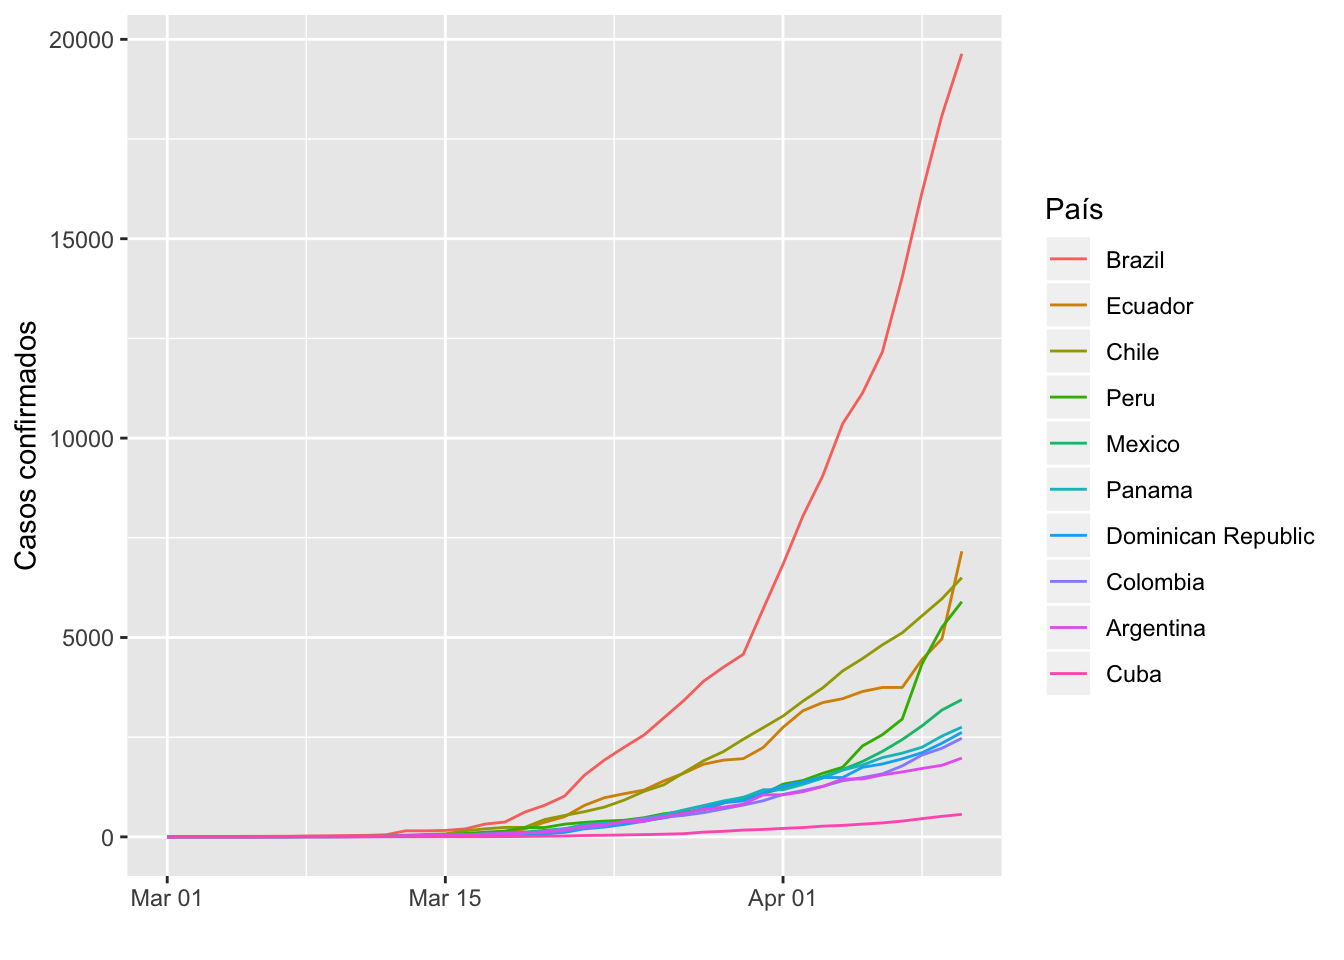
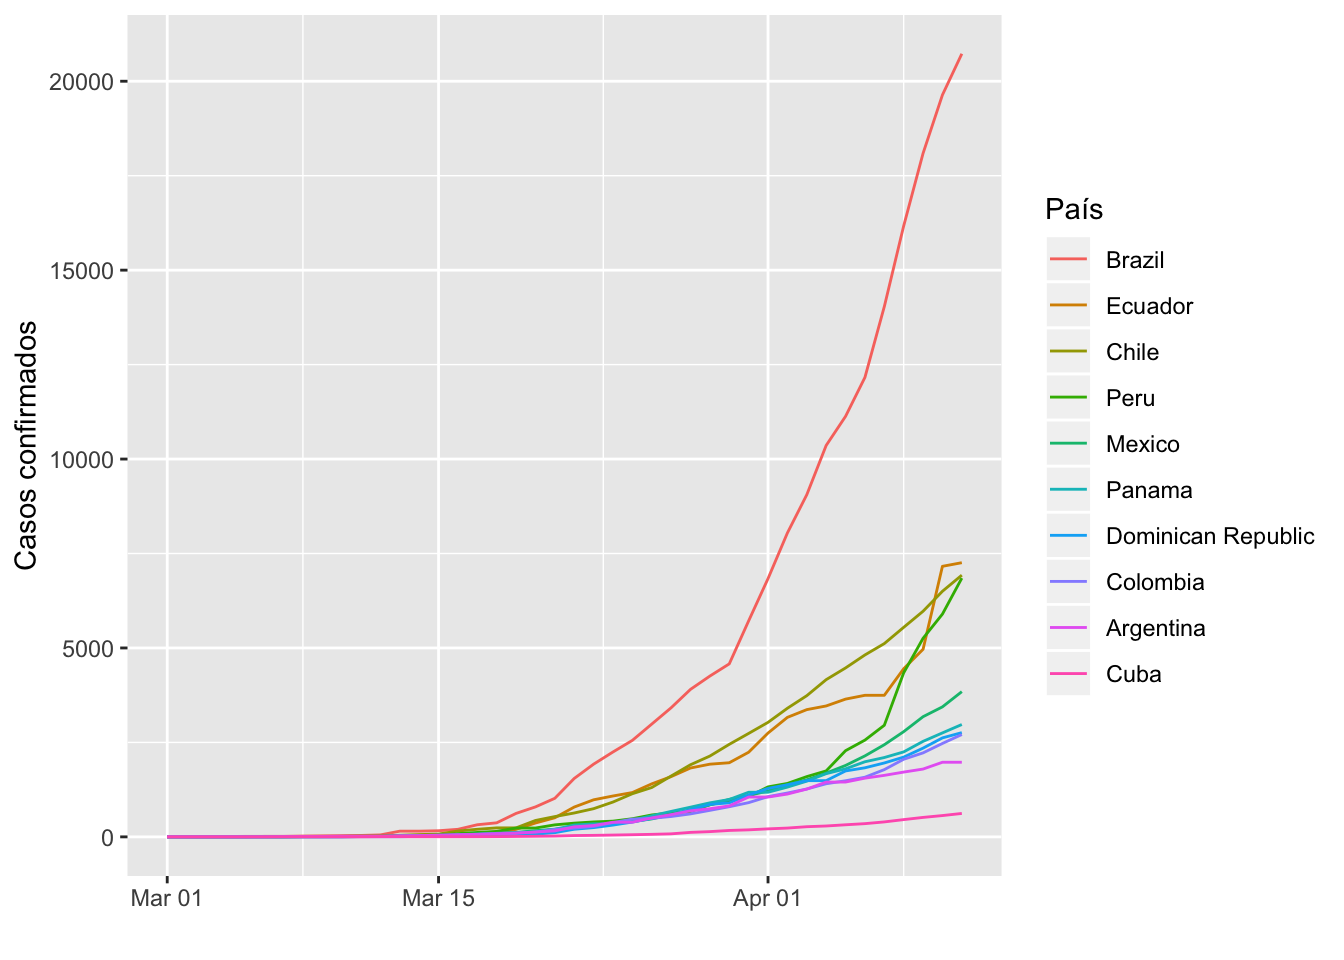
update

diff --git a/content/post/salud/2020-04-01-resumen-estadistico-sobre-el-coronavirus-en-ecuador-y-america-latina-marzo.html b/content/post/salud/2020-04-01-resumen-estadistico-sobre-el-coronavirus-en-ecuador-y-america-latina-marzo.html
@@ -25,20 +25,20 @@ images:
 <script src="/rmarkdown-libs/crosstalk/js/crosstalk.min.js"></script>
 
 
-<p>El 29 de febrero de 2020, el Ecuador se convirtió en el tercer país en América Latina en confirmar su primer caso de Covid-19. Brasil y México fueron los primeros. En tan solo un mes, el virus logró propagarese en todos los países de la región y hasta ayer, 2020-04-10, se contabilizaron 55284 casos confirmados, 2230 fallecidos y 5442 recuperados.</p>
+<p>El 29 de febrero de 2020, el Ecuador se convirtió en el tercer país en América Latina en confirmar su primer caso de Covid-19. Brasil y México fueron los primeros. En tan solo un mes, el virus logró propagarese en todos los países de la región y hasta ayer, 2020-04-11, se contabilizaron 58982 casos confirmados, 2415 fallecidos y 6097 recuperados.</p>
 <p><strong>NOTA:</strong> Todas las estadísticas están actualizadas al <strong>sábado, 11 de abril de 2020</strong>. Los datos se actualizan automáticamente todos los día en la mañana con los datos del día anterior.</p>
 <p><strong>Tabla 1. Número de casos confirmados, fallecidos, y recuperados por país</strong></p>
 <div id="htmlwidget-1" style="width:100%;height:auto;" class="datatables html-widget"></div>
-<script type="application/json" data-for="htmlwidget-1">{"x":{"filter":"none","data":[["1","2","3","4","5","6","7","8","9","10","11","12","13","14","15","16","17","18","19","20"],["Brazil","Ecuador","Chile","Peru","Mexico","Panama","Dominican Republic","Colombia","Argentina","Cuba","Costa Rica","Uruguay","Honduras","Bolivia","Venezuela","Paraguay","Guatemala","El Salvador","Haiti","Nicaragua"],[19638,7161,6501,5897,3441,2752,2620,2473,1975,564,558,473,382,268,171,129,126,117,31,7],[1057,297,65,169,194,66,126,80,82,15,3,7,23,19,9,6,3,6,2,1],[173,368,1571,1569,633,16,98,197,375,51,42,206,7,2,84,18,17,15,0,0]],"container":"<table class=\"display\">\n  <thead>\n    <tr>\n      <th> <\/th>\n      <th>País<\/th>\n      <th>Casos confirmados<\/th>\n      <th>Fallecidos<\/th>\n      <th>Recuperados<\/th>\n    <\/tr>\n  <\/thead>\n<\/table>","options":{"pageLength":5,"lengthMenu":[5,10,15,20],"columnDefs":[{"className":"dt-right","targets":[2,3,4]},{"orderable":false,"targets":0}],"order":[],"autoWidth":false,"orderClasses":false}},"evals":[],"jsHooks":[]}</script>
+<script type="application/json" data-for="htmlwidget-1">{"x":{"filter":"none","data":[["1","2","3","4","5","6","7","8","9","10","11","12","13","14","15","16","17","18","19","20"],["Brazil","Ecuador","Chile","Peru","Mexico","Panama","Dominican Republic","Colombia","Argentina","Cuba","Costa Rica","Uruguay","Honduras","Bolivia","Venezuela","Guatemala","Paraguay","El Salvador","Haiti","Nicaragua"],[20727,7257,6927,6848,3844,2974,2759,2709,1975,620,577,494,392,275,175,137,133,118,33,8],[1124,315,73,181,233,74,135,100,83,16,3,7,24,20,9,3,6,6,2,1],[173,411,1864,1739,633,17,108,214,440,77,49,214,7,2,93,19,18,19,0,0]],"container":"<table class=\"display\">\n  <thead>\n    <tr>\n      <th> <\/th>\n      <th>País<\/th>\n      <th>Casos confirmados<\/th>\n      <th>Fallecidos<\/th>\n      <th>Recuperados<\/th>\n    <\/tr>\n  <\/thead>\n<\/table>","options":{"pageLength":5,"lengthMenu":[5,10,15,20],"columnDefs":[{"className":"dt-right","targets":[2,3,4]},{"orderable":false,"targets":0}],"order":[],"autoWidth":false,"orderClasses":false}},"evals":[],"jsHooks":[]}</script>
 <p>A pesar de las medidas que impuso el gobierno ecuatoriano a inicios de marzo, es difícil afirmar que estas has sido los suficientemente efectivas para desacelerar el crecimiento de casos confirmados y muertes por Covid-19. Otros países también han tomado medidas, pero aún así el virus ha logrado esparcirse en toda la región. Aquí te mostramos dos mapas.</p>
 <p><strong>Mapa 1. Evolución de número de casos confirmados en América Latina</strong> <img src="/post/salud/2020-04-01-resumen-estadistico-sobre-el-coronavirus-en-ecuador-y-america-latina-marzo_files/figure-html/unnamed-chunk-5.gif" width="672" /> Fuente: Center for Systems Science and Engineering (CSSE) de Johns Hopkins University</p>
 <p><strong>Mapa 2. Evolución de número de fallecidos en América Latina</strong> <img src="/post/salud/2020-04-01-resumen-estadistico-sobre-el-coronavirus-en-ecuador-y-america-latina-marzo_files/figure-html/unnamed-chunk-6.gif" width="672" /> Fuente: Center for Systems Science and Engineering (CSSE) de Johns Hopkins University</p>
 <p>El 14 de marzo, el vicepresidente Otto Sonnenholzner anunció el cierre de fronteras a partir del lunes 16 de marzo a las 13:59. Otros países también han tomado medidas similares. A mediados de marzo, Perú también cerró sus fronteras. Colombia lo hizo 23 de marzo. Sin embargo, a finales de marzo Brazil ya alcanza casi seis mil casos confirmados, Chile los tres mil y Ecuador ya supera los dos mil.</p>
 <p><strong>Gráfico 1. Evolución del número de casos confirmados por país en América Latina</strong></p>
 <p><img src="/post/salud/2020-04-01-resumen-estadistico-sobre-el-coronavirus-en-ecuador-y-america-latina-marzo_files/figure-html/unnamed-chunk-7-1.png" width="672" /> Fuente: Center for Systems Science and Engineering (CSSE) de Johns Hopkins University</p>
-<p>Panamá, Chile y Ecuador son los países con mayor número de casos confirmados por cada millón de habitantes. Así mismo, Panamá y República Dominicana y Ecuador cuentan con el mayor número de fallecidos por cada millón de habitantes. En Ecuador, por cada millón de habitantes, existen 347.1 casos confirmados y 3.5 fallecidos. Te ofrecemos más detalle en la siguiente tabla.</p>
+<p>Panamá, Chile y Ecuador son los países con mayor número de casos confirmados por cada millón de habitantes. Así mismo, Panamá y República Dominicana y Ecuador cuentan con el mayor número de fallecidos por cada millón de habitantes. En Ecuador, por cada millón de habitantes, existen 369.9 casos confirmados y 3.9 fallecidos. Te ofrecemos más detalle en la siguiente tabla.</p>
 <p><strong>Tabla 2. Número de casos confirmados y fallecidos por cada millón de habitantes</strong> <div id="htmlwidget-2" style="width:100%;height:auto;" class="datatables html-widget"></div>
-<script type="application/json" data-for="htmlwidget-2">{"x":{"filter":"none","data":[["1","2","3","4","5","6","7","8","9","10","11","12","13","14","15","16","17","18","19","20"],["Brazil","Ecuador","Chile","Peru","Mexico","Panama","Dominican Republic","Colombia","Argentina","Cuba","Costa Rica","Uruguay","Honduras","Bolivia","Venezuela","Paraguay","Guatemala","El Salvador","Haiti","Nicaragua"],[19638,7161,6501,5897,3441,2752,2620,2473,1975,564,558,473,382,268,171,129,126,117,31,7],[1057,297,65,169,194,66,126,80,82,15,3,7,23,19,9,6,3,6,2,1],[93.8,419.2,347.1,184.3,27.3,658.9,246.5,49.8,44.4,49.7,111.6,137.1,39.8,23.6,5.9,18.5,7.3,18.2,2.8,1.1],[5,17.4,3.5,5.3,1.5,15.8,11.9,1.6,1.8,1.3,0.6,2,2.4,1.7,0.3,0.9,0.2,0.9,0.2,0.2]],"container":"<table class=\"display\">\n  <thead>\n    <tr>\n      <th> <\/th>\n      <th>País<\/th>\n      <th>Casos confirmados<\/th>\n      <th>Fallecidos<\/th>\n      <th>Casos por cada millón<\/th>\n      <th>Fallecidos por cada millón<\/th>\n    <\/tr>\n  <\/thead>\n<\/table>","options":{"pageLength":5,"lengthMenu":[5,10,15,20],"columnDefs":[{"className":"dt-right","targets":[2,3,4,5]},{"orderable":false,"targets":0}],"order":[],"autoWidth":false,"orderClasses":false}},"evals":[],"jsHooks":[]}</script> Fuente: Center for Systems Science and Engineering (CSSE) de Johns Hopkins University (datos del Covid-19) y Banco Mundial (datos poblacionales proyectados al 2018)</p>
+<script type="application/json" data-for="htmlwidget-2">{"x":{"filter":"none","data":[["1","2","3","4","5","6","7","8","9","10","11","12","13","14","15","16","17","18","19","20"],["Brazil","Ecuador","Chile","Peru","Mexico","Panama","Dominican Republic","Colombia","Argentina","Cuba","Costa Rica","Uruguay","Honduras","Bolivia","Venezuela","Guatemala","Paraguay","El Salvador","Haiti","Nicaragua"],[20727,7257,6927,6848,3844,2974,2759,2709,1975,620,577,494,392,275,175,137,133,118,33,8],[1124,315,73,181,233,74,135,100,83,16,3,7,24,20,9,3,6,6,2,1],[99,424.8,369.9,214.1,30.5,712,259.6,54.6,44.4,54.7,115.4,143.2,40.9,24.2,6.1,7.9,19.1,18.4,3,1.2],[5.4,18.4,3.9,5.7,1.8,17.7,12.7,2,1.9,1.4,0.6,2,2.5,1.8,0.3,0.2,0.9,0.9,0.2,0.2]],"container":"<table class=\"display\">\n  <thead>\n    <tr>\n      <th> <\/th>\n      <th>País<\/th>\n      <th>Casos confirmados<\/th>\n      <th>Fallecidos<\/th>\n      <th>Casos por cada millón<\/th>\n      <th>Fallecidos por cada millón<\/th>\n    <\/tr>\n  <\/thead>\n<\/table>","options":{"pageLength":5,"lengthMenu":[5,10,15,20],"columnDefs":[{"className":"dt-right","targets":[2,3,4,5]},{"orderable":false,"targets":0}],"order":[],"autoWidth":false,"orderClasses":false}},"evals":[],"jsHooks":[]}</script> Fuente: Center for Systems Science and Engineering (CSSE) de Johns Hopkins University (datos del Covid-19) y Banco Mundial (datos poblacionales proyectados al 2018)</p>
 <div id="metodología" class="section level3">
 <h3>Metodología</h3>
 <p>Los análisis y mapas fueron creados usando lenguaje <code>R</code>. Para más detalle sobre la metodología empleada en este artículo y para reproducir el código utilizado, te invitamos a visitar nuestra página en <a href="https://github.com/aquijanoruiz/elquantificador_posts/tree/master/salud/2020-04-01-resumen-estadistico-sobre-el-coronavirus-en-ecuador-y-america-latina">github</a>. Si tienes duda sobre la metodología o el código, escríbeme a <a href="mailto:alonso@elquantificador.org">alonso@elquantificador.org</a>.</p>
